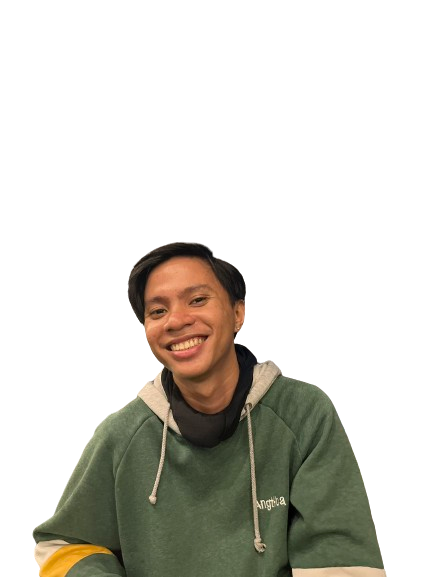
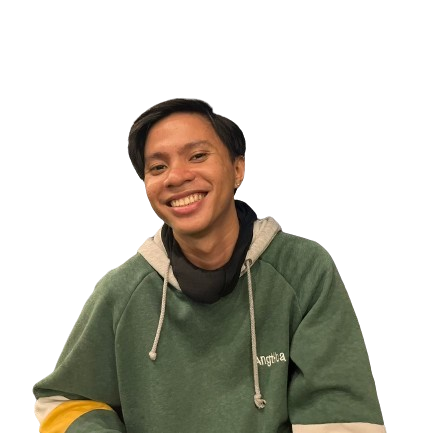
feat: complete hero page implementation

Changed region(s): [[0.06, 0.2102, 0.9007, 0.9908]]

diff --git a/tailwind.config.js b/tailwind.config.js
@@ -29,6 +29,8 @@ export default {
         600: "#CEC1B6",
         700: "#C6B7A9",
         800: "#BAA898",
+        900: "#AD9885",
+        950: "#9D836C"
       },
       "champagne": {
         100: "#FAF6F0",
@@ -53,6 +55,9 @@ export default {
       lora: ["Lora", "sans-serif"],
     }
   },
+    backgroundImage: {
+      "hero": "url(/public/images/image-background.jpg)"
+    }
   
   },
   plugins: [],

diff --git a/resources/views/section/hero.blade.php b/resources/views/section/hero.blade.php
@@ -1,0 +1,27 @@
+<section class="flex flex-col xl:flex-row w-full min-h-screen max-container gap-10 justify-center">
+    {{-- Left section --}}
+    <div class="relative flex flex-col justify-center items-start pt-28 xl:w-2/5  ">
+        <p class="font-lora text-2xl max-sm:text-xl font-bold leading-normal">Hi I, Am</p>
+        <h3 class="font-lora text-4xl max-sm:text-2xl font-bold leading-normal mt-2">Ken Joshua R. Buenavides</h3>
+        <h1 class="relative font-poppins text-8xl font-bold leading-normal max-md:text-[72px] max-lg:leading-[110px] max-md:leading-[80px] max-sm:text-[52px] max-sm:leading-[65px] ">Laravel 
+          <span class="text-cambridge-950 xl:pl-[180px] xl:pr-10 xl:py-3 rounded-full xl:whitespace-nowrap bg-champagne-200 relative z-10">Developer</span></h1>
+        <p class="font-lora text-xl max-sm:text-lg font-semibold leading-normal mt-3 text-khaki-950">Lorem ipsum dolor sit amet consectetur, adipisicing
+            elit. Nostrum, in mollitia voluptatum reiciendis doloribus expedita fugiat explicabo nisi voluptate dolorem.
+        </p>
+        <div class="flex justify-center items-start mt-10">
+            <button
+                class="flex justify-center items-center bg-black text-champagne-200 font-poppins text-md leading-normal py-3 px-6 rounded-full shadow-md font-semibold hover:bg-columbia-950 transition ease-out delay-150">Download
+                Cv</button>
+        </div>
+    </div>
+
+    {{-- Right section --}}
+    <div class="relative flex flex-1 justify-center items-center max-xl:py-40 xl:min-h-screen">
+        <div class="bg-hero bg-cover rounded-s-[70px] rounded-e-xl">
+            <img class="relative object-contain z-10 w-[610px] h-[500px] pl-10" src="{{ asset('images/hero-image.png') }}"
+                alt="hero-image">
+        </div>
+    </div>
+
+
+</section>

diff --git a/resources/views/layout/app.blade.php b/resources/views/layout/app.blade.php
@@ -11,7 +11,7 @@
   <main class="relative">
     @include("section.nav")
     <section class="sm:pl-16 pl-8 sm:pr-16 pr-8 sm:pb-24 pb-12" >
-      Hero
+      @include("section.hero")
     </section>
     <section class="padding">
       About Me
